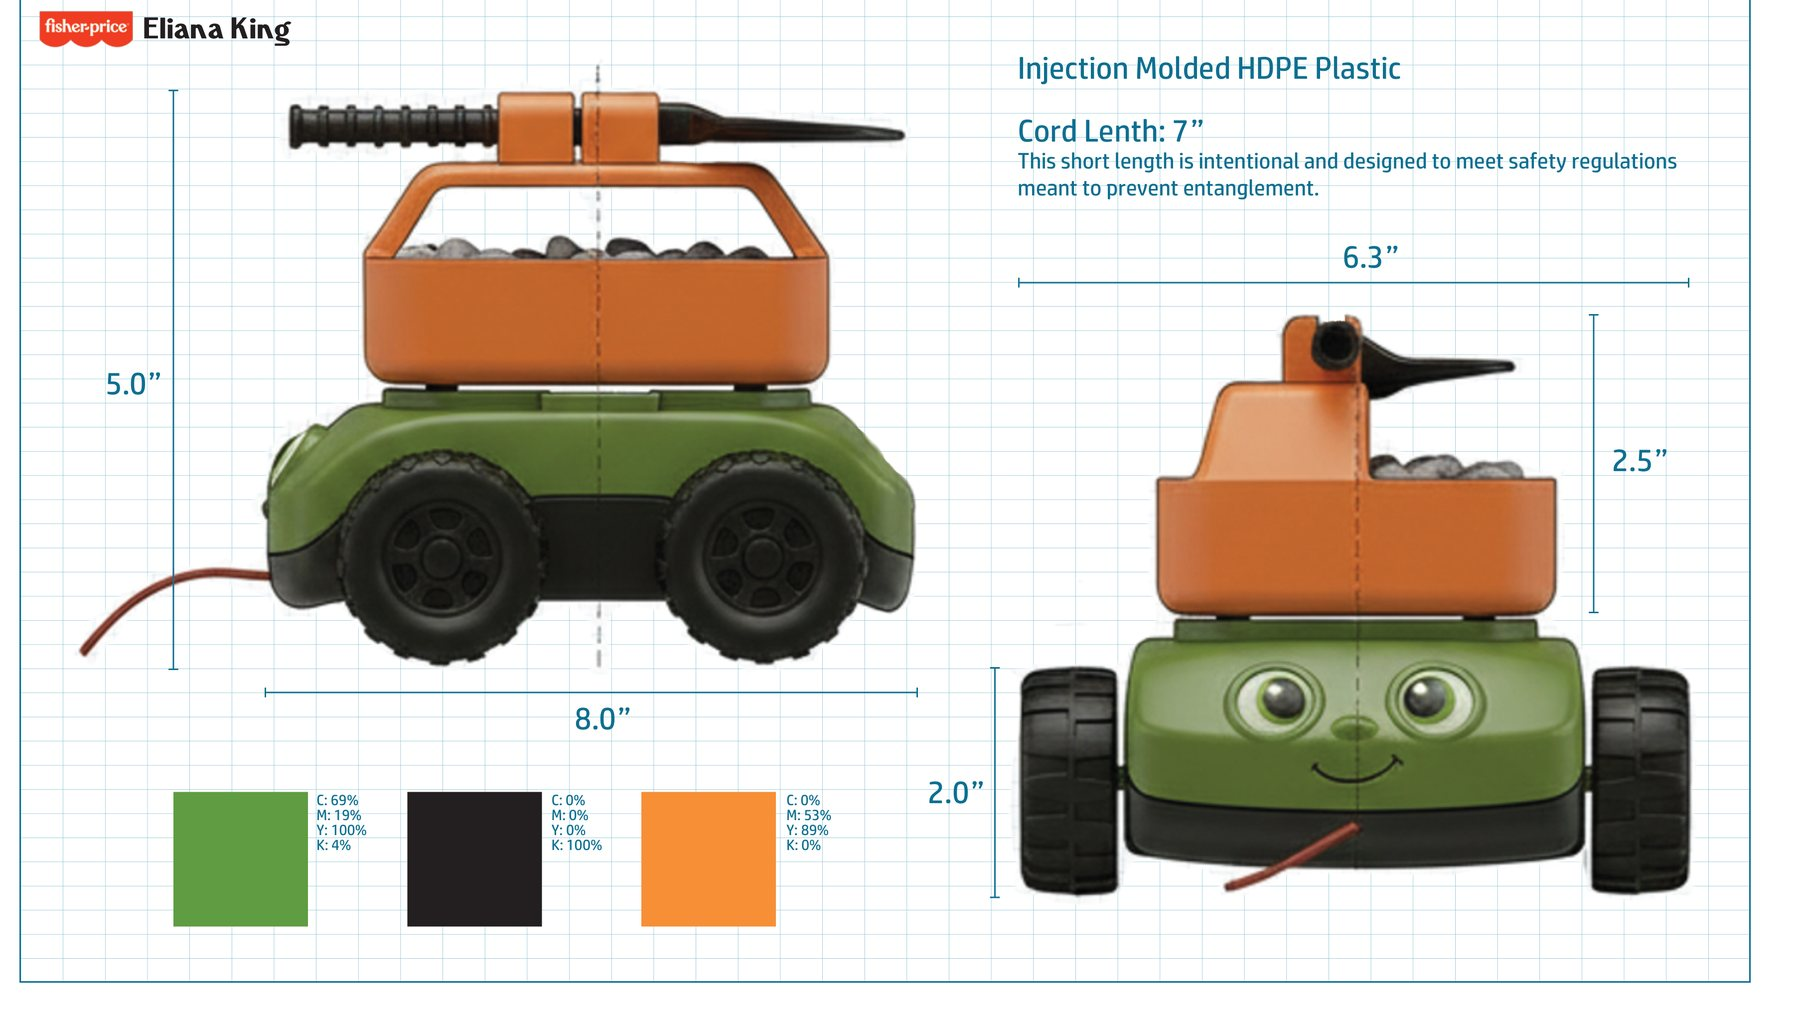
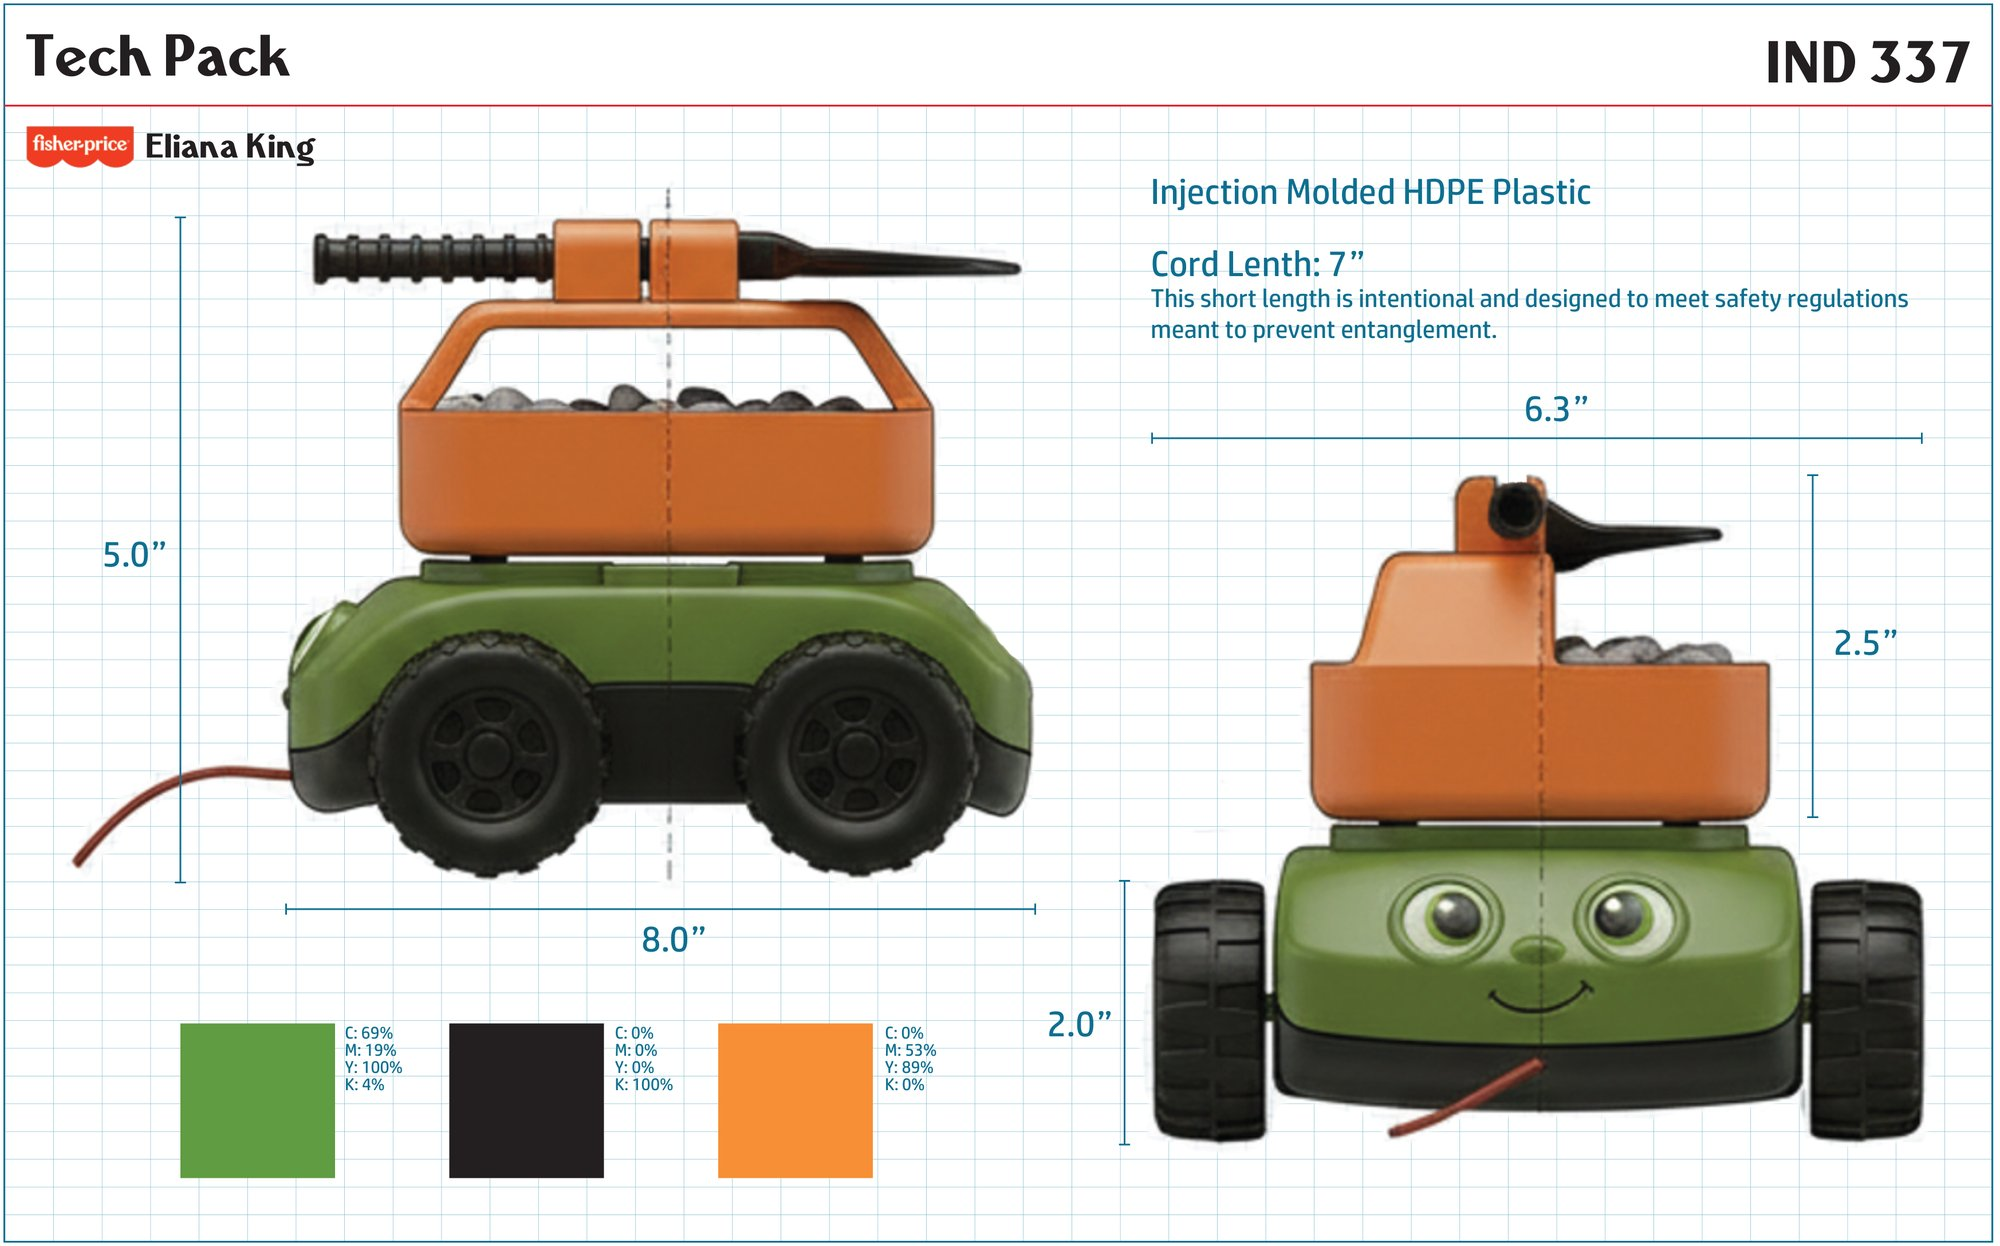
render 2

diff --git a/main.js b/main.js
@@ -134,9 +134,7 @@ const PROJECTS = [
     context: 'Fisher-Price redesign, IND 337',
     role: 'Research, sketching, rendering, CMF', timeline: '', team: 'Solo',
     cover: 'images/rover/cover.jpg', coverAlt: 'Chatter Rover, a green toy rover with an orange lift-top cab and a friendly face, sitting in a sandbox',
-    overview: "The Fisher-Price Chatter Phone has been rolling along behind kids since 1962. I redesigned it as Chatter Rover: it keeps the pull string and friendly face, but trades the rotary dial for a rugged off-road body built for the sandbox, with a snap-in shovel, a bin for collected treasures, and a lift-top cab that hides extra storage.",
-    problemTitle: 'The brief',   // optional: renames the "Problem" section
-    problem: "Redesign an iconic toy. The Chatter Phone has barely changed since 1962, so I started by asking what to keep and what to rethink. Adults feel a strong nostalgia for it, while reviews of today's version point to a 4-inch cord that's too short, plastic that feels cheap, and play that doesn't hold kids' attention for long.",
+    overview: "The brief was to redesign an iconic toy: the Fisher-Price Chatter Phone, which has barely changed since 1962. Research showed what to keep and what to rethink. Adults feel a strong nostalgia for it, while reviews of today's version point to a 4-inch cord that's too short, plastic that feels cheap, and play that doesn't hold kids' attention for long. Chatter Rover keeps the pull string and friendly face, but trades the rotary dial for a rugged off-road body built for the sandbox, with a snap-in shovel, a bin for collected treasures, and a lift-top cab that hides extra storage.",
     market: {
       labels: { base: 'Ages', note: 'Features' },   // column names for this table
       fit: 'Chatter Rover',
@@ -152,23 +150,24 @@ const PROJECTS = [
     // img: [file name in images/rover, caption, optional [width, height]]. "wide: true" shows a group full width.
     process: [
       { title: 'Studying the original', text: 'The Chatter Phone has changed more than most people remember: from a wooden toy with star decals and metal bells, to all plastic with a shorter pull string, to a rounder body, to today\u2019s brighter version with animated eyes. Each update made it safer while keeping its nostalgic charm.',
-        groups: [{ images: [['history-747', '#747, 1962 to 1989: wood, star decals, metal bells'], ['history-2063', '#2063, 1992 to 1993: all plastic, shorter string'], ['history-2251', '#2251, 1994 to 1999: rounder \u201cbubbled\u201d body'], ['history-7816', '#7816, 2000 to today: brighter colors, animated eyes']] }] },
+        groups: [{ wide: true, images: [['history-evolution', 'Chatter Phone evolution, 1962 to today', [2000, 1083]]] }] },
       { title: 'Visual brand language', text: 'I set the direction as Off-Road Exploration: rugged, playful, and natural. The board pulls from tractors, jeeps, and sand play, with a palette of army green, olive, sand beige, dark gray, and yellow, and details like chunky forms, laser-etched textures, soft rubber treads, and a removable scoop.',
         groups: [{ wide: true, images: [['vbl-board', 'Off-Road Exploration mood board', [1800, 1165]]] }] },
       { title: 'Sketches', text: 'Sketches explored chunky, jeep-like bodies, storage compartments, and a friendly face that carries the Chatter Phone\u2019s personality into the new form.',
-        groups: [{ images: [['sketch-1', 'Off-road body with storage bins'], ['sketch-2', 'Face and compartment studies'], ['sketch-3', 'Rounded body with a roof rack'], ['sketch-4', 'Big-wheel front view'], ['sketch-5', 'Side view with storage crates'], ['sketch-6', 'Friendly face with roof storage']] }] },
+        groups: [{ wide: true, images: [['sketches-sheet', 'Concept sketches', [2000, 1116]]] }] },
       { title: 'Render progression', text: 'I refined the design over eight rounds, moving between renders and quick sketch overlays. The shovel moved up to the roof, side compartments were added for rocks and treasures, the character face appeared, the top turned traffic-cone orange, and the cab became a lift-up lid with a joint the shovel clicks into.',
         groups: [{ images: [['round-1', 'Round 1: camo off-road start'], ['round-2', 'Round 2: sketch study'], ['round-3', 'Round 3: shovel on the roof, side compartments, and a face'], ['round-4', 'Round 4: traffic-cone orange top'], ['round-5', 'Round 5: sketch study'], ['round-6', 'Round 6: lift-up cab and click-in shovel'], ['round-7', 'Round 7: sketch study'], ['round-8', 'Round 8: sketch study']] }] },
       { title: 'Final design', text: 'The final rover pairs a snap-fit shovel and a wide storage bin with a lift-top shell, oversized wheels, and a 7-inch tow rope.',
-        groups: [{ images: [['final-main', 'Snap-fit shovel, storage bin, and tow rope'], ['final-lift', 'Lift-top shell with storage underneath']] }] },
+        groups: [{ cols: 2, images: [['final-main', 'Snap-fit shovel, storage bin, and tow rope'], ['final-lift', 'Lift-top shell with storage underneath']] }] },
       { title: 'Tech pack', text: 'The tech pack documents the rover for production: injection-molded HDPE plastic, an 8-inch body about 5 inches tall, a green, black, and orange colorway, and a 7-inch cord kept intentionally short to meet safety regulations that prevent entanglement.',
-        groups: [{ wide: true, images: [['tech-pack', 'Tech pack: dimensions, colors, material, and cord length', [1800, 1035]]] }] },
+        groups: [{ wide: true, images: [['tech-pack', 'Tech pack: dimensions, colors, material, and cord length', [2000, 1246]]] }] },
     ],
     details: { title: 'Design details', lists: {
       Features: ['Snap-fit joint keeps the shovel secure during play', 'Wide bin holds collected treasures and encourages open-ended play', 'Lift-top shell reveals extra storage underneath', 'Oversized wheels stay stable on uneven outdoor terrain'],
       Specs: ['Injection-molded HDPE plastic', 'About 8" long and 5" tall', '7" tow rope, short by design to prevent entanglement', 'Green, black, and orange colorway'],
     } },
     outcome: "Chatter Rover keeps what people love about the Chatter Phone, a friendly face and a pull string, and gives kids more reasons to keep playing: a shovel to dig with, a bin to fill, a hidden compartment to discover, and wheels built for sand. Its 7-inch tow rope is long enough to pull and short enough to meet child safety standards.",
+    outcomeImages: 1,   // optional: how many outcome photos to show (up to 3)
     tools: [],
   },
   {
@@ -940,7 +939,7 @@ if (isHome) {
               <h4><span class="step-n">${i + 1}</span>${esc(s.title)}</h4>
               <p>${esc(s.text)}</p>
               ${s.groups.map((g) => `<div class="step-group">${g.title ? `<h5>${esc(g.title)}</h5>` : ''}
-                <div class="gallery${g.wide ? ' is-wide' : ''}">${g.images.map(([file, cap, ar = [4, 3]]) => {
+                <div class="gallery${g.wide ? ' is-wide' : ''}${g.cols ? ` cols-${g.cols}` : ''}">${g.images.map(([file, cap, ar = [4, 3]]) => {
                   const k = GALLERIES.case.push({ title: cap, src: `images/${p.slug}/${file}.jpg`, ar }) - 1;
                   return `<figure class="gfig"><button type="button" class="gfig-btn" data-lb="${k}" data-cursor="Enlarge" aria-label="Enlarge: ${esc(cap)}">${media({ src: `images/${p.slug}/${file}.jpg`, alt: cap, label: cap, ar })}</button><figcaption>${esc(cap)}</figcaption></figure>`;
                 }).join('')}</div></div>`).join('')}
@@ -969,9 +968,9 @@ if (isHome) {
         <section class="case-block case-fade" aria-labelledby="h-outcome">
           <div class="case-sec"><h3 id="h-outcome">Outcome</h3><div><p>${esc(p.outcome)}</p></div></div>
           <div class="outcome-grid">
-            ${img('outcome-1', `${p.title}, final design`, `${p.title}, outcome 1`, [16, 9])}
-            ${img('outcome-2', `${p.title}, detail view`, `${p.title}, outcome 2`)}
-            ${img('outcome-3', `${p.title}, in use`, `${p.title}, outcome 3`)}
+            ${[img('outcome-1', `${p.title}, final design`, `${p.title}, outcome 1`, [16, 9]),
+               img('outcome-2', `${p.title}, detail view`, `${p.title}, outcome 2`),
+               img('outcome-3', `${p.title}, in use`, `${p.title}, outcome 3`)].slice(0, p.outcomeImages || 3).join('')}
           </div>
         </section>
         ${p.nextTime ? `<section class="case-block case-fade" aria-labelledby="h-next">

diff --git a/styles.css b/styles.css
@@ -353,6 +353,11 @@ html.nav-scrolled .nav-bg { opacity: 1; }
 .gfig-btn { display: block; width: 100%; padding: 0; border: 0; background: none; cursor: zoom-in; border-radius: var(--radius-m); }
 .gfig .ph-label { display: none; }
 .gallery.is-wide { grid-template-columns: 1fr; }   /* one big image, e.g. a mood board */
+.gallery.cols-2 { grid-template-columns: repeat(2, minmax(0, 1fr)); }
+@media (max-width: 560px) { .gallery.cols-2 { grid-template-columns: 1fr; } }
+/* Galleries in case studies run a little wider than the text, up to the full page width */
+.case .step-group { position: relative; left: 50%; transform: translateX(-50%); width: max(100%, min(calc(1240px - 2 * var(--gutter)), calc(100vw - 2 * var(--gutter) - 24px))); }
+.case-scroll { overflow-x: hidden; }
 .gfig-btn:hover img, .gfig-btn:hover .ph-art { transform: scale(1.04); }
 .gfig figcaption { margin-top: 8px; font-size: 0.85rem; line-height: 1.35; color: var(--ink-soft); }
 @media (max-width: 560px) { .gallery { grid-template-columns: repeat(2, minmax(0, 1fr)); gap: 12px; } }
